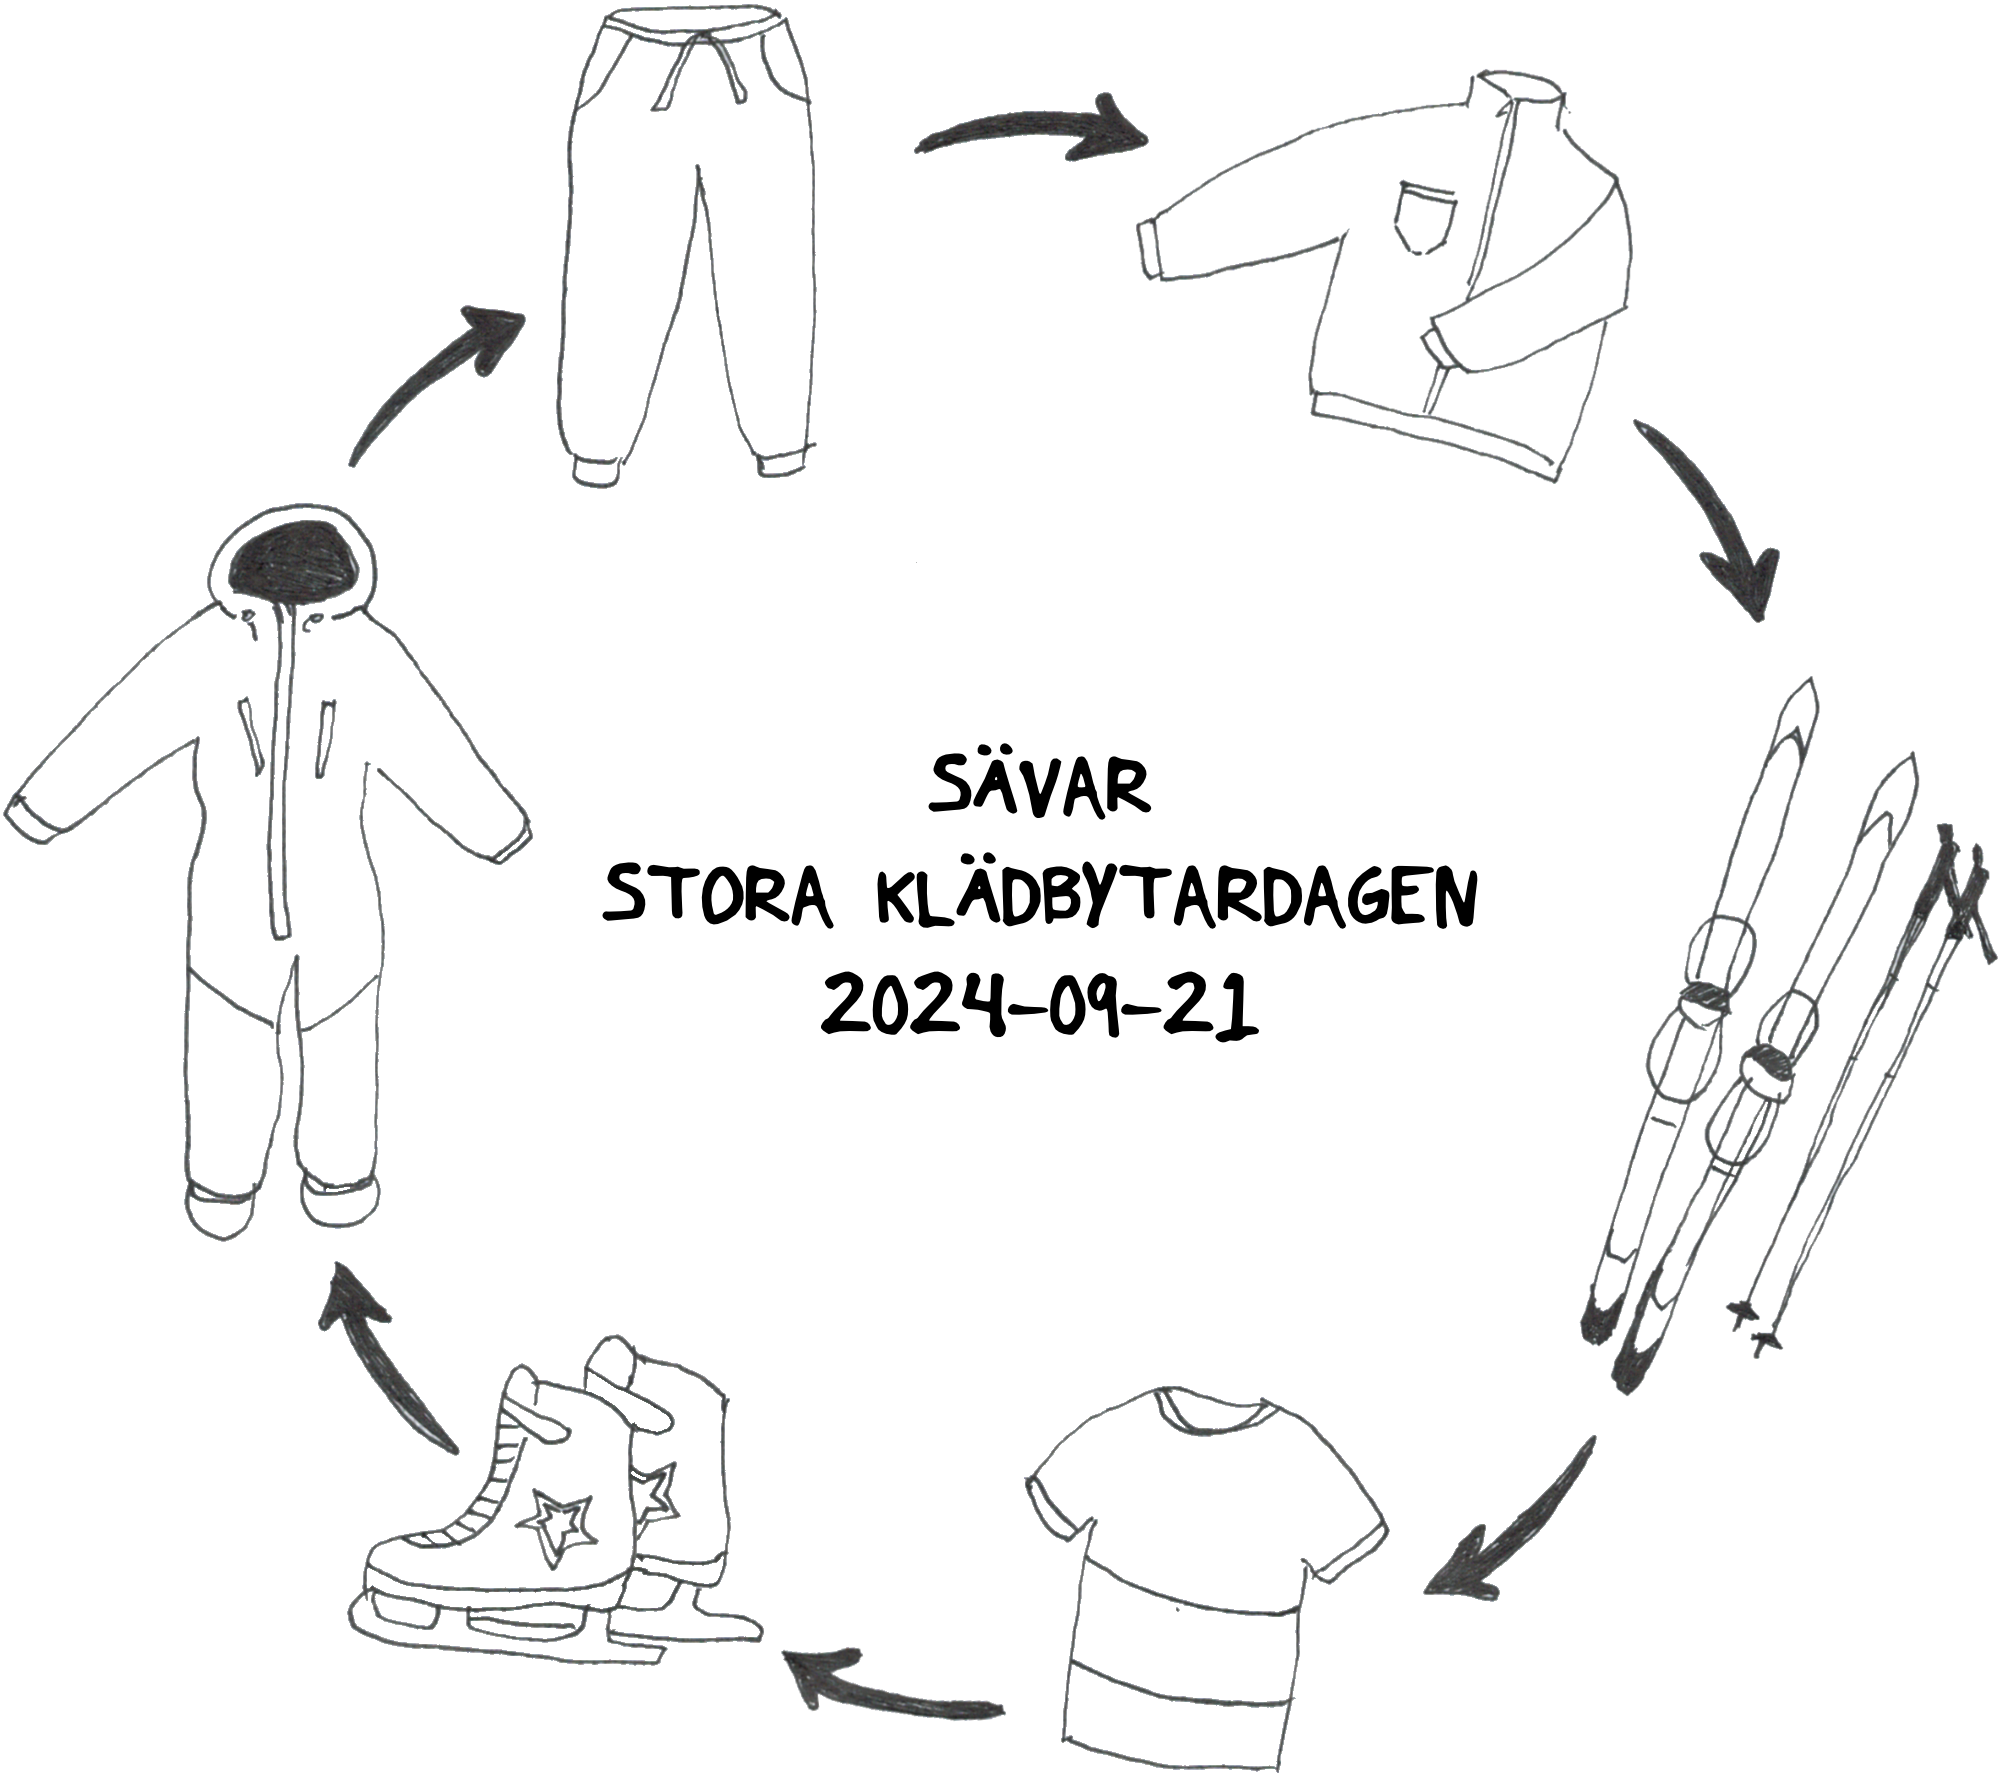
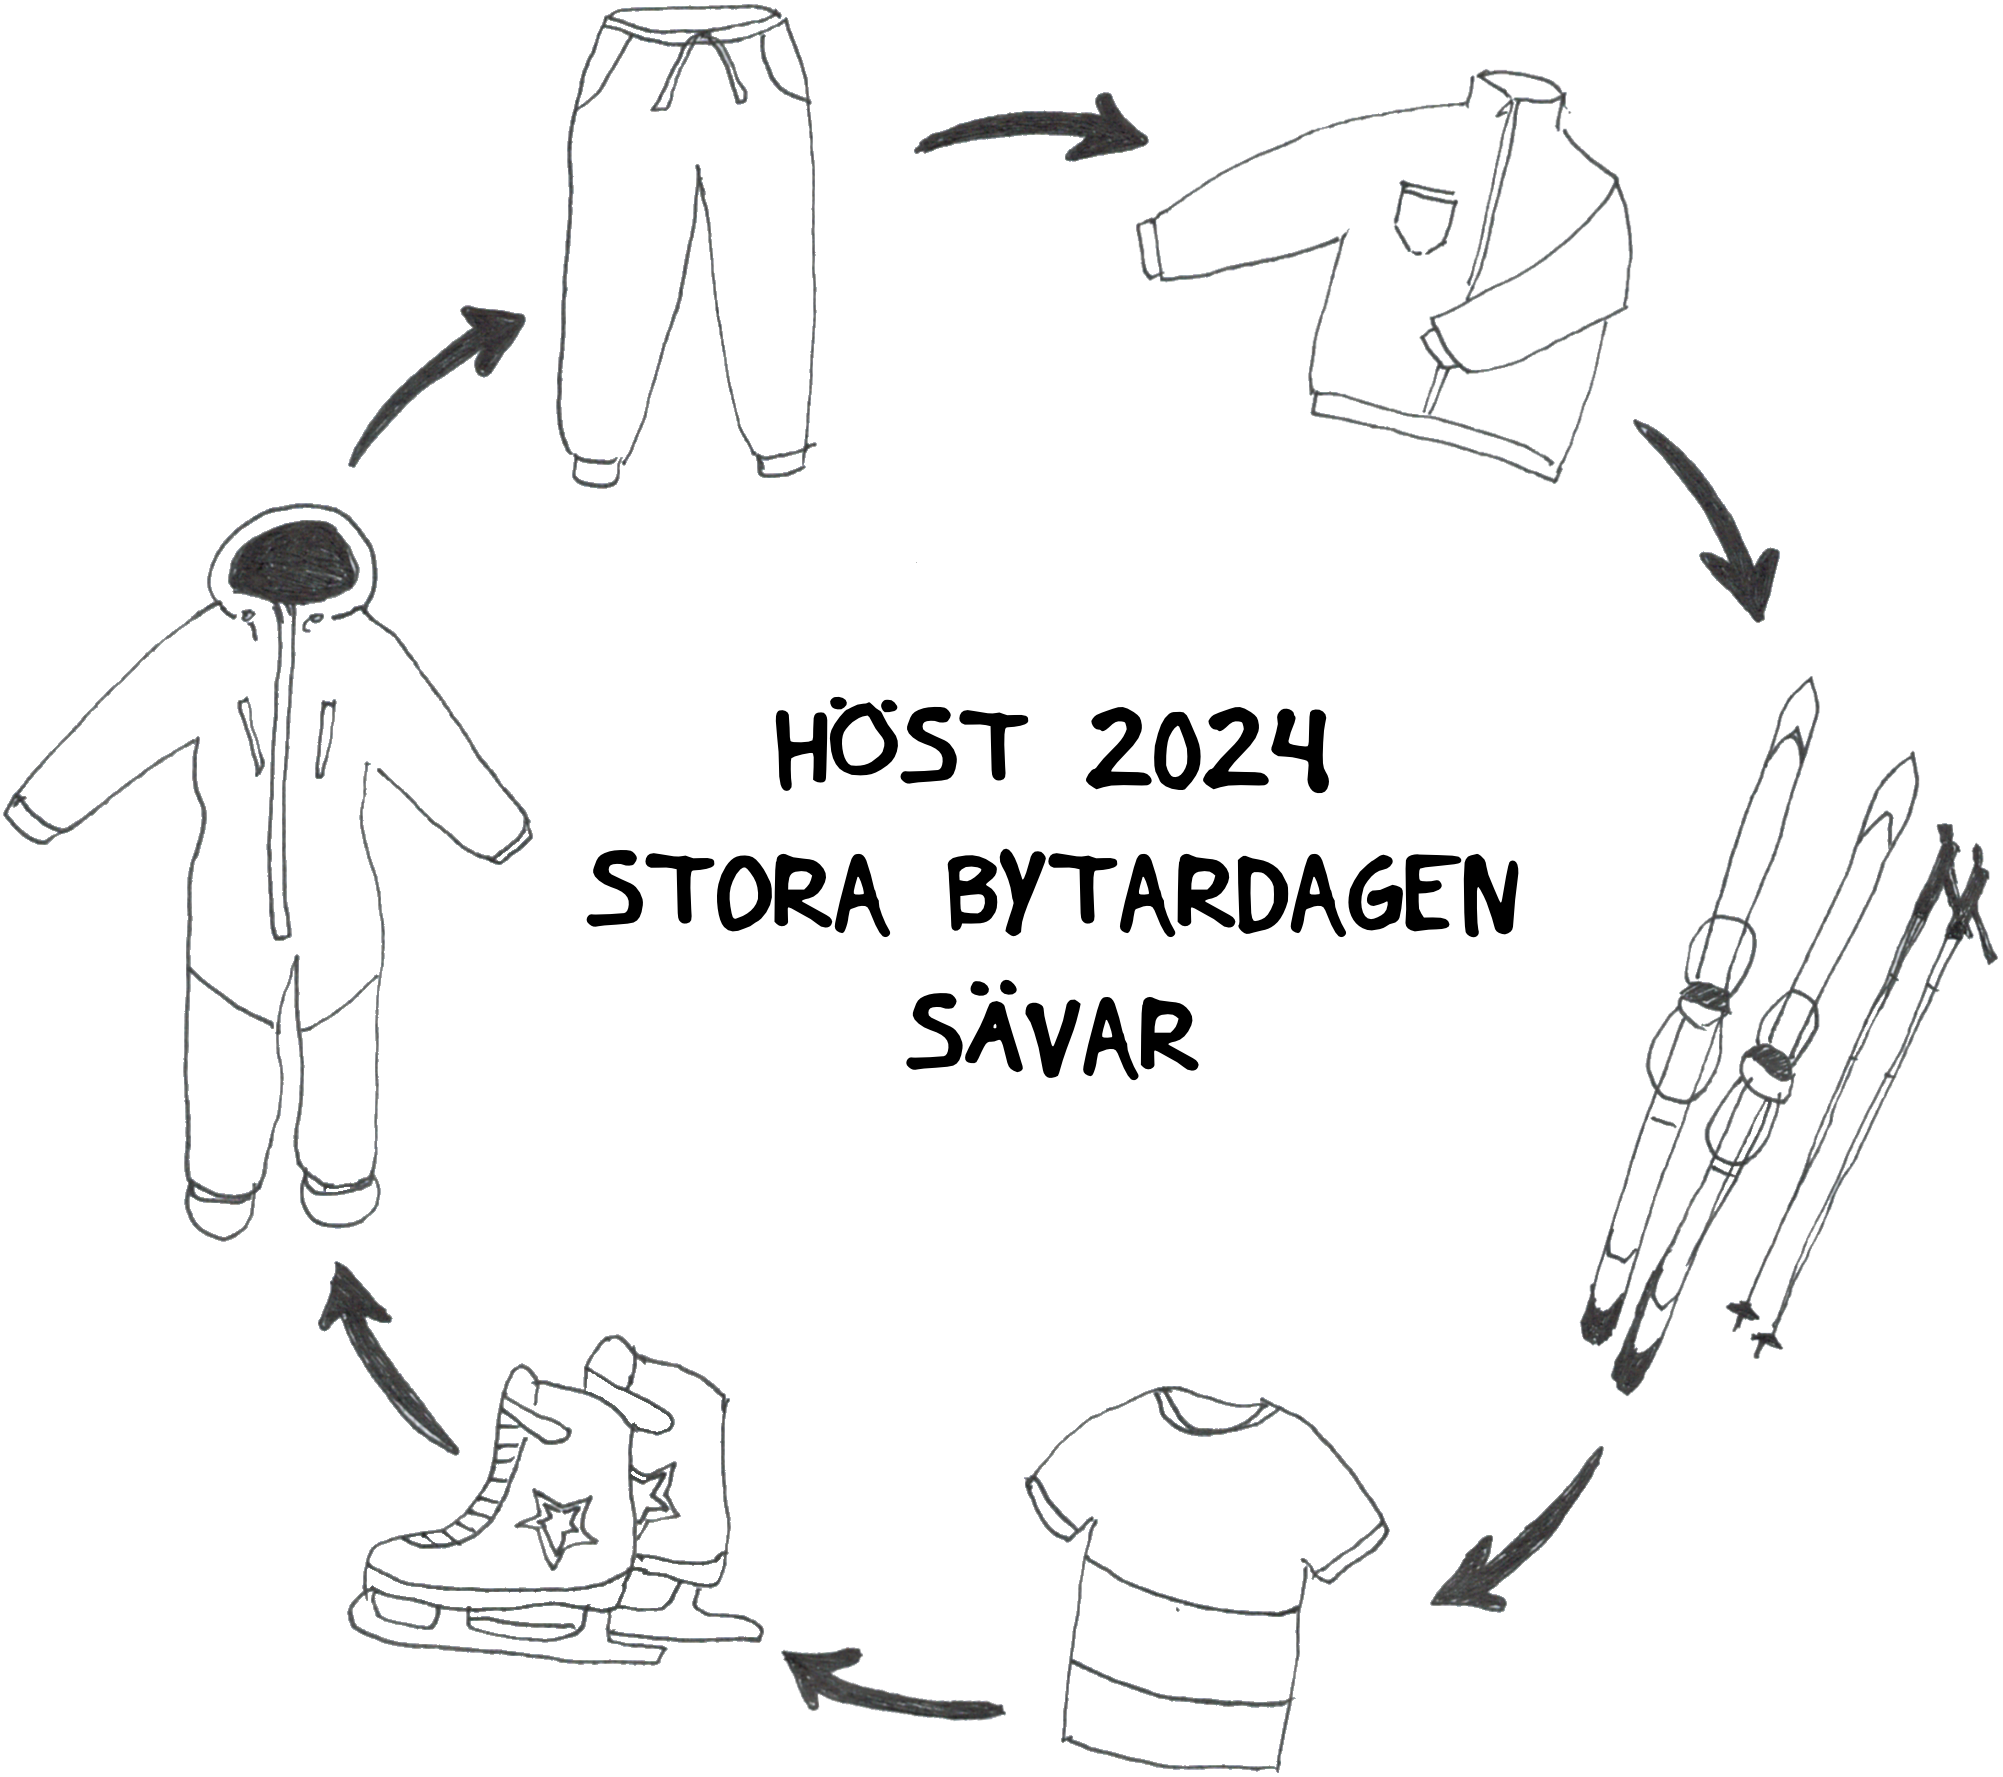
paths

Changed region(s): [[0.2786, 0.3714, 0.7738, 0.619], [0.7119, 0.8047, 0.8048, 0.9285]]

diff --git a/saljare/index.html b/saljare/index.html
@@ -2,20 +2,20 @@
 <head>
     <meta charset="UTF-8">
     <meta name="viewport" content="width=device-width, initial-scale=1.0">
-    <link rel="stylesheet" href="/stora_bytardagen/css/custom.css" />
-    <link rel="stylesheet" href="/stora_bytadagen/css/pico.min.css" />
-    <link rel="stylesheet" href="/stora_bytardagen/css/pico.amber.min.css" />
+    <link rel="stylesheet" href="/css/custom.css" />
+    <link rel="stylesheet" href="/css/pico.min.css" />
+    <link rel="stylesheet" href="/css/pico.amber.min.css" />
     <title>Stora Klädbytardagen - Sävar 20240921</title>
 </head>
 <body>
     <header class="container">
         <nav class="menu">
             <ul>
-              <li><a href="/stora_bytardagen/">Hem</a></li>
-              <li><a href="/stora_bytardagen/hur_funkar_det/">Hur funkar det?</a></li>
-              <li><a href="/stora_bytardagen/saljare">Säljare</a></li>
-              <li><a href="/stora_bytardagen/kopare">Köpare</a></li>
-              <li><a href="/stora_bytardagen/om">Om</a></li>
+              <li><a href="/">Hem</a></li>
+              <li><a href="/hur_funkar_det/">Hur funkar det?</a></li>
+              <li><a href="/saljare">Säljare</a></li>
+              <li><a href="/kopare">Köpare</a></li>
+              <li><a href="/om">Om</a></li>
             </ul>
           </nav>
     </header>
@@ -32,9 +32,11 @@ plagget samt pris. Om man önskar få tillbaka plagget om det inte blivit sålt 
 <p>
 Inlämning av kläder/saker kommer ske fredag 20 september kl 18-19 på EFS i Sävar.
 Sedan behöver du som säljare inte göra något mer än att vänta in en swishbetalning när du fått dina kläder/saker sålda. Enklare än så blir det helt enkelt inte!
-Anmälan som säljare
-För att anmäla sig skickar du ett mail till storabytardagen@gmail.com. I mailet ska det
-framgå ditt namn samt mobilnummer (som har swish kopplat till sig). Du kommer få ett
+</p>
+<h2>Anmälan som säljare</h2>
+<p>
+För att anmäla sig skickar du ett mail till <a href="mailto:storabytardagen@gmail.com">storabytardagen@gmail.com</a>. I mailet ska det
+framgå ditt <b>namn samt mobilnummer (som har swish kopplat till sig)</b>. Du kommer få ett
 bekräftelsemail med ett säljnummer när du fått en säljplats. Se till att anmäla dig så snart som
 möjligt. Det finns endast 100 säljplatser.
 </p>
@@ -50,7 +52,7 @@ möjligt. Det finns endast 100 säljplatser.
 </ul>
     </main>
     <footer class="container-fluid" style="text-align: center;">
-        <img class="footer_leaf" width="100%" src="/stora_bytardagen/img/leaf.png"/>
+        <img class="footer_leaf" width="100%" src="/img/leaf.png"/>
     </footer>
 </body>
 </html>

diff --git a/index.html b/index.html
@@ -2,26 +2,26 @@
 <head>
     <meta charset="UTF-8">
     <meta name="viewport" content="width=device-width, initial-scale=1.0">
-    <link rel="stylesheet" href="/stora_bytardagen/css/custom.css" />
-    <link rel="stylesheet" href="/stora_bytardagen/css/pico.min.css" />
-    <link rel="stylesheet" href="/stora_bytardagen/css/pico.amber.min.css" />
+    <link rel="stylesheet" href="/css/custom.css" />
+    <link rel="stylesheet" href="/css/pico.min.css" />
+    <link rel="stylesheet" href="/css/pico.amber.min.css" />
     <title>Stora Klädbytardagen - Sävar 20240921</title>
 </head>
 <body>
     <header class="container">
         <nav class="menu">
             <ul>
-              <li><a href="/stora_bytardagen/">Hem</a></li>
-              <li><a href="/stora_bytardagen/hur_funkar_det/">Hur funkar det?</a></li>
-              <li><a href="/stora_bytardagen/saljare">Säljare</a></li>
-              <li><a href="/stora_bytardagen/kopare">Köpare</a></li>
-              <li><a href="/stora_bytardagen/om">Om</a></li>
+              <li><a href="/">Hem</a></li>
+              <li><a href="/hur_funkar_det/">Hur funkar det?</a></li>
+              <li><a href="/saljare">Säljare</a></li>
+              <li><a href="/kopare">Köpare</a></li>
+              <li><a href="/om">Om</a></li>
             </ul>
           </nav>
     </header>
     <main class="container">
         <div class="container-fluid logo-container">
-            <img width="500px" src="/stora_bytardagen/img/loga 2024_test.png" alt="Logga för klädbytardagen i Sävar 2024-09-21"/>
+            <img width="500px" src="/img/loga 2024.png" alt="Logga för klädbytardagen i Sävar 2024-09-21"/>
         </div>
         <div class="container" style="margin-top: 2rem;">
             <div style="text-align: center;">
@@ -33,7 +33,7 @@
         </div>
     </main>
     <footer class="container-fluid" style="text-align: center;">
-        <img class="footer_leaf" width="100%" src="/stora_bytardagen/img/leaf.png"/>
+        <img class="footer_leaf" width="100%" src="/img/leaf.png"/>
     </footer>
 </body>
 </html>

diff --git a/hur_funkar_det/index.html b/hur_funkar_det/index.html
@@ -2,20 +2,20 @@
 <head>
     <meta charset="UTF-8">
     <meta name="viewport" content="width=device-width, initial-scale=1.0">
-    <link rel="stylesheet" href="/stora_bytardagen/css/custom.css" />
-    <link rel="stylesheet" href="/stora_bytadagen/css/pico.min.css" />
-    <link rel="stylesheet" href="/stora_bytardagen/css/pico.amber.min.css" />
+    <link rel="stylesheet" href="/css/custom.css" />
+    <link rel="stylesheet" href="/css/pico.min.css" />
+    <link rel="stylesheet" href="/css/pico.amber.min.css" />
     <title>Stora Klädbytardagen - Sävar 20240921</title>
 </head>
 <body>
     <header class="container">
         <nav class="menu">
             <ul>
-              <li><a href="/stora_bytardagen/">Hem</a></li>
-              <li><a href="/stora_bytardagen/hur_funkar_det/">Hur funkar det?</a></li>
-              <li><a href="/stora_bytardagen/saljare">Säljare</a></li>
-              <li><a href="/stora_bytardagen/kopare">Köpare</a></li>
-              <li><a href="/stora_bytardagen/om">Om</a></li>
+              <li><a href="/">Hem</a></li>
+              <li><a href="/hur_funkar_det/">Hur funkar det?</a></li>
+              <li><a href="/saljare">Säljare</a></li>
+              <li><a href="/kopare">Köpare</a></li>
+              <li><a href="/om">Om</a></li>
             </ul>
           </nav>
     </header>
@@ -41,7 +41,7 @@ Nu under bytardagen på hösten tar vi även emot saker som hör inom kategorin 
 </p>
     </main>
     <footer class="container-fluid" style="text-align: center;">
-        <img class="footer_leaf" width="100%" src="/stora_bytardagen/img/leaf.png"/>
+        <img class="footer_leaf" width="100%" src="/img/leaf.png"/>
     </footer>
 </body>
 </html>
